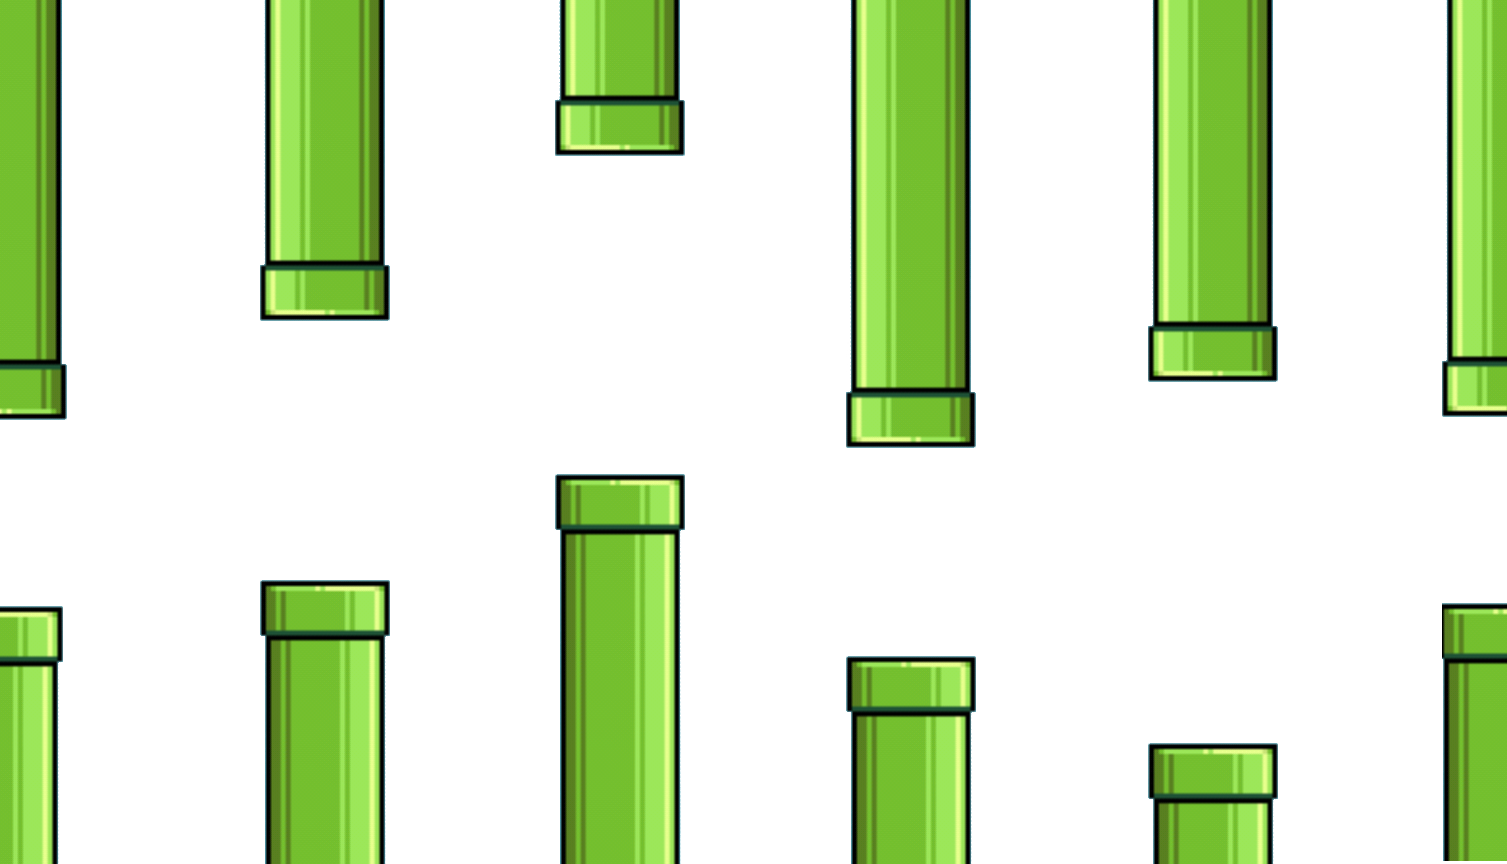
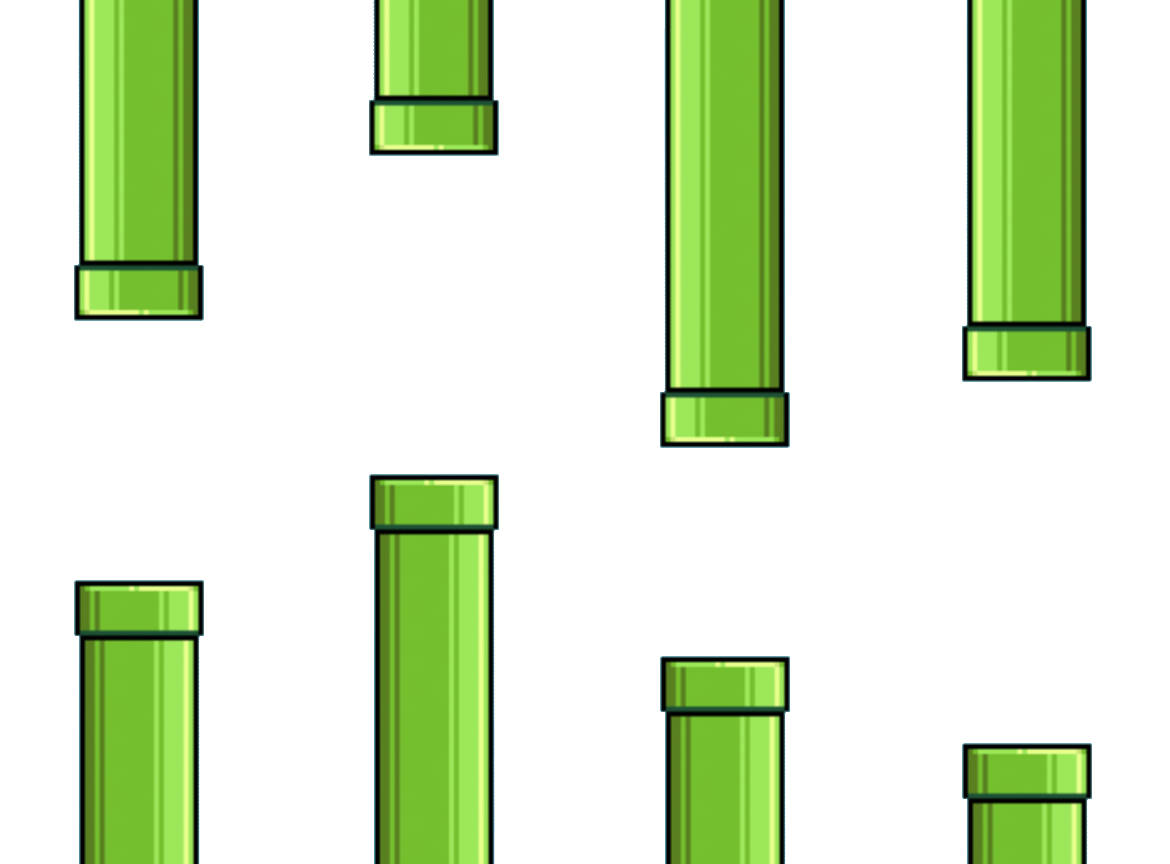
i think everything is pretty much done

diff --git a/ssss.html b/ssss.html
@@ -3,98 +3,87 @@
   <head>
     <meta charset="UTF-8" />
     <meta name="viewport" content="width=device-width, initial-scale=1.0" />
-    <title>Collision Detection</title>
+    <title>Flappy Bird</title>
     <style>
-      .main {
+      * {
+        margin: 0;
+        padding: 0;
+        box-sizing: border-box;
+      }
+      body {
+        display: flex;
+        justify-content: center;
+        align-items: center;
+        height: 100vh;
+        background: skyblue;
+      }
+      .game-container {
         position: relative;
         width: 400px;
-        height: 300px;
-        border: 3px solid black;
+        height: 600px;
         overflow: hidden;
-        padding: 20px; /* Padding dinamik o‘zgarishi mumkin */
+        border: 2px solid black;
+        background: url("https://i.imgur.com/3spCDoH.png") repeat-x;
       }
-
-      .moving {
+      .bird {
         position: absolute;
-        width: 50px;
-        height: 50px;
-        background-color: red;
-        cursor: grab;
+        width: 40px;
+        height: 40px;
+        background: yellow;
+        border-radius: 50%;
+        top: 50%;
+        left: 50px;
       }
-
-      .obstacle {
+      .pipe {
         position: absolute;
-        width: 100px;
-        height: 100px;
-        background-color: blue;
-        top: 120px;
-        left: 120px;
+        width: 60px;
+        height: 200px;
+        background: green;
+      }
+      .pipe.top {
+        top: 0;
+      }
+      .pipe.bottom {
+        bottom: 0;
+      }
+      .score {
+        position: absolute;
+        top: 10px;
+        left: 50%;
+        transform: translateX(-50%);
+        font-size: 24px;
+        font-family: Arial, sans-serif;
       }
     </style>
   </head>
   <body>
-    <div class="main" id="main">
-      <div class="moving" id="moving"></div>
-      <div class="obstacle" id="obstacle"></div>
+    <div class="game-container">
+      <div class="bird"></div>
+      <div class="score">0</div>
     </div>
-
     <script>
-      const moving = document.getElementById("moving");
-      const obstacle = document.getElementById("obstacle");
-      const main = document.getElementById("main");
+      const bird = document.querySelector(".bird");
+      const gameContainer = document.querySelector(".game-container");
+      const scoreDisplay = document.querySelector(".score");
+      let birdY = 200;
+      let gravity = 2;
+      let velocity = 0;
+      let score = 0;
 
-      let isDragging = false;
-      let offsetX, offsetY;
-
-      moving.addEventListener("mousedown", (e) => {
-        isDragging = true;
-        offsetX = e.clientX - moving.offsetLeft;
-        offsetY = e.clientY - moving.offsetTop;
-      });
-
-      document.addEventListener("mousemove", (e) => {
-        if (!isDragging) return;
-
-        let newX = e.clientX - offsetX;
-        let newY = e.clientY - offsetY;
-
-        // Dinamik paddingni hisobga olish
-        const mainStyles = window.getComputedStyle(main);
-        const paddingX = parseInt(mainStyles.paddingLeft);
-        const paddingY = parseInt(mainStyles.paddingTop);
-
-        const maxX = main.clientWidth - moving.clientWidth - paddingX;
-        const maxY = main.clientHeight - moving.clientHeight - paddingY;
-
-        // Elementni chegarada ushlab turish
-        newX = Math.max(paddingX, Math.min(newX, maxX));
-        newY = Math.max(paddingY, Math.min(newY, maxY));
-
-        moving.style.left = newX + "px";
-        moving.style.top = newY + "px";
-
-        // To‘qnashuvni tekshirish
-        if (isColliding(moving, obstacle)) {
-          isDragging = false; // Agar urilsa harakat to‘xtaydi
-        }
-      });
-
-      document.addEventListener("mouseup", () => {
-        isDragging = false;
-      });
-
-      // To‘qnashuvni aniqlash funksiyasi
-      function isColliding(el1, el2) {
-        const rect1 = el1.getBoundingClientRect();
-        const rect2 = el2.getBoundingClientRect();
-
-        return !(
-          rect1.right < rect2.left ||
-          rect1.left > rect2.right ||
-          rect1.bottom < rect2.top ||
-          rect1.top > rect2.bottom
-        );
+      function jump() {
+        velocity = -10;
       }
+      document.addEventListener("keydown", jump);
+
+      function gameLoop() {
+        velocity += gravity;
+        birdY += velocity;
+        bird.style.top = birdY + "px";
+
+        if (birdY > 560 || birdY < 0) location.reload();
+        requestAnimationFrame(gameLoop);
+      }
+      gameLoop();
     </script>
   </body>
 </html>

diff --git a/app.js b/app.js
@@ -5,60 +5,64 @@ let movinBg = document.querySelector(".movingBackground");
 let stopC = con.getBoundingClientRect();
 let stopM = flappyBird.getBoundingClientRect();
 let container = con.getBoundingClientRect();
-
-console.log(movinBg.children);
-let counter = document.querySelector(".counter");
-l = 0;
+let start = document.querySelector("h1");
+let pipe = document.querySelector(".pipes");
+let s = 3;
 setInterval(() => {
-  counter.style.padding = "12px 16px";
-  counter.style.backgroundColor = "red";
-  counter.innerHTML = l;
-  l++;
-}, 1000);
+  if (s == 0) {
+    start.textContent = "";
+    start.style.padding = "0px";
+    start.style.border = "none";
 
-n = 30;
+    clearInterval(sett);
+  }
 
-start = 0;
-fallDown = () => {
-  let setT = setInterval(() => {
-    flappyBird.style.marginBottom = `${n}px`;
-    if (stopM.bottom > container.bottom) {
-      clearInterval(setT);
-    }
-    n -= 4;
-  }, 6);
-};
-console.log([...movinBg.children][0] == flappyBird);
+  start.style.boxShadow =
+    "   -10px 0 0 0 green,10px 0 0 0 green,0 -10px 0 0 green,0 10px 0 0 green";
+  start.style.border = "6px solid green";
+  start.textContent = `Starting in ${s}`;
+  start.style.padding = "20px";
 
-fallDown();
+  s--;
+}, 900);
 
-let goUp = () => {
-  con.addEventListener("click", (event) => {
-    event.preventDefault();
+setTimeout(() => {
+  console.log(movinBg.children);
+  let counter = document.querySelector(".counter");
+  l = 0;
+  setInterval(() => {
+    counter.style.padding = "12px 16px";
+    counter.style.backgroundColor = "red";
+    counter.innerHTML = l;
+    l++;
+  }, 1000);
 
-    flappyBird.style.marginBottom = `${n}px`;
-    flappyBird.style.transition = "0.19s";
+  n = 30;
 
-    let stopM = flappyBird.getBoundingClientRect();
-    let container = con.getBoundingClientRect();
+  start = 0;
+  fallDown = () => {
+    let setT = setInterval(() => {
+      flappyBird.style.marginBottom = `${n}px`;
+      if (
+        stopM.left < container.left ||
+        stopM.right > container.right ||
+        stopM.bottom > container.bottom ||
+        stopM.top < container.top
+      ) {
+        return;
+      } else {
+        n -= 4;
+      }
+    }, 6);
+  };
+  console.log([...movinBg.children][0] == flappyBird);
 
-    if (
-      stopM.left < container.left ||
-      stopM.right > container.right ||
-      stopM.bottom > container.bottom ||
-      stopM.top < container.top
-    ) {
-      return;
-    } else {
-      n += 350;
-    }
-  });
-};
-goUp();
-function spaceJ() {
-  document.addEventListener("keydown", (event) => {
-    if (event.code === "Space") {
+  fallDown();
+
+  let goUp = () => {
+    con.addEventListener("click", (event) => {
       event.preventDefault();
+
       flappyBird.style.marginBottom = `${n}px`;
       flappyBird.style.transition = "0.19s";
 
@@ -75,7 +79,34 @@ function spaceJ() {
       } else {
         n += 350;
       }
-    }
-  });
-}
-spaceJ();
+    });
+  };
+  goUp();
+  function spaceJ() {
+    document.addEventListener("keydown", (event) => {
+      if (event.code === "Space") {
+        event.preventDefault();
+        flappyBird.style.marginBottom = `${n}px`;
+        flappyBird.style.transition = "0.19s";
+
+        let stopM = flappyBird.getBoundingClientRect();
+        let container = con.getBoundingClientRect();
+
+        if (
+          stopM.left < container.left ||
+          stopM.right > container.right ||
+          stopM.bottom > container.bottom ||
+          stopM.top < container.top
+        ) {
+          return;
+        } else {
+          n += 350;
+        }
+      }
+    });
+  }
+  spaceJ();
+}, 4000);
+
+let pipe1 = document.createElement("img");
+pipe1.setAttribute("src", "./pipe/pipe1.png");

diff --git a/style.css b/style.css
@@ -5,6 +5,16 @@
   justify-content: center;
   align-items: center;
 }
+.start {
+  background-color: white;
+  color: black;
+  z-index: 3;
+  justify-content: center;
+  align-items: center;
+  position: absolute;
+  font-family: sans-serif;
+  align-items: center;
+}
 .container {
   position: relative;
   margin-top: 17px;
@@ -47,26 +57,43 @@
 }
 .pipes {
   position: absolute;
-  width: 500px;
+  width: 900px;
   height: 100vh;
-
-  background: url(./pipe/pipssssaas.png) repeat-x;
-  background-position: 0;
-  margin-bottom: 139px;
-  background-size: 982px;
-  animation: movingB 4s linear infinite;
+  margin-bottom: 140px;
+  background: url(./pipe/llll.png) repeat-x;
+  background-size: 3800px;
+  animation: moving 11s linear infinite;
 }
-@keyframes movingB {
+
+@keyframes moving {
+  from {
+    background-position: 0;
+  }
   to {
-    background-position: -1000px;
+    background-position: -3800px;
   }
 }
+
 .counter {
   position: absolute;
   z-index: 1;
-
   font-family: "Gill Sans", "Gill Sans MT", Calibri, "Trebuchet MS", sans-serif;
   align-self: flex-start;
   color: white;
   margin-left: 423px;
+}
+.d1 {
+  background-color: blueviolet;
+  position: absolute;
+  z-index: 0;
+
+  padding: 24px 10px;
+}
+.d2 {
+  background-color: rgb(67, 40, 92);
+  position: absolute;
+  z-index: 0;
+  display: flex;
+
+  padding: 24px 10px;
 }

diff --git a/index.html b/index.html
@@ -7,9 +7,14 @@
     <link rel="stylesheet" href="style.css" />
   </head>
   <body>
+    <div class="start">
+      <h1></h1>
+    </div>
     <div class="container">
       <p class="counter"></p>
-      <img src="" alt="" class="pipes" />
+      <div class="pP">
+        <img src="" alt="" class="pipes" />
+      </div>
       <div class="movingBackground">
         <div class="flappyBird">
           <img
